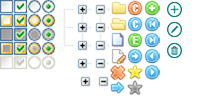
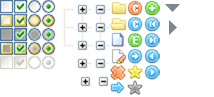
树状菜单调整样式

Changed region(s): [[0.757, 0.0, 0.8692, 0.1856], [0.757, 0.433, 0.8692, 0.6186], [0.757, 0.2165, 0.8692, 0.4021]]

diff --git a/src/main/resources/templates/intermediary/detail.html b/src/main/resources/templates/intermediary/detail.html
@@ -10,14 +10,133 @@
 <div class="wrapper">
     <!-- Content Wrapper. Contains page content -->
     <div class="content-wrapper">
-        <!-- Content Header (Page header) -->
-        <section class="content-header">
-            <h1>
-                项目管理
-            </h1>
+        <section class="content-header change-content">
+            <div class="row">
+                <div class="col-md-10 col-sm-10  col-xs-12">
+                    <div class="form-group float-left">
+                        <span class="font-size-18">供应商详情</span>
+                    </div>
+                </div>
+                <div class="col-md-2 col-sm-2  col-xs-12">
+                    <!--<button type="button" class="btn btn-block btn-info">添加设备</button>-->
+                    <button type="button" class="btn btn-info btn-block"
+                            data-toggle="modal" data-target="#modal-info" @click="backIndex">
+                        返回
+                    </button>
+                </div>
+            </div>
         </section>
+        <section class="content-list">
+            <div class="page-content">
+                <div class="row">
+                    <div class="col-md-6 col-sm-6 col-xs-12 page-content">
+                        <div class="logo-detail border-black padding-10">
+                            <div class="row">
+                                <div class="col-md-6 col-sm-4 col-xs-6 ">
+                                    <img src="images/timg.jpg" alt="" width="" id="logo">
+                                </div>
+                                <div class="col-md-6 col-sm-8 col-xs-6 ">
+                                    <div>
+                                        <label for="">中间商名称</label>
+                                        <span>中间商xxxxxxx公司</span>
+                                    </div>
+                                    <div>
+                                        <label for="">所属地区：</label>
+                                        <span>安徽省</span>
+                                    </div>
+                                    <div>
+                                        <label for="">联系人</label>
+                                        <span>张三</span>
+                                    </div>
+                                    <div>
+                                        <label for="">联系方式</label>
+                                        <span>139xxxxxxxx</span>
+                                    </div>
+                                    <div>
+                                        <label for="">平台对接人</label>
+                                        <span>张三</span>
+                                    </div>
+                                    <div>
+                                        <label for="">联系电话</label>
+                                        <span></span>
+                                    </div>
+                                </div>
+                            </div>
+                        </div>
+                        <div class="row padding-10">
+                            <div class="col-md-12 padding-left-15">
+                                图片资料
+                            </div>
+                            <div class="col-md-12 company-content padding-left-15">
+                                中间商简要信息中间商简要信息中间商简要信息中间商简要信息中间商简要信息中间商简要信息中间商简要信息中间商简要信息中间商简要信息中间商简要信息中间商简要信息中间商简要信息中间商简要信息中间商简要信息中间商简要信息中间商简要信息中间商简要信息中间商简要信息中间商简要信息中间商简要信息
+                                中间商简要信息中间商
+                            </div>
+                        </div>
+                    </div>
+                    <div class="col-md-6 col-sm-6 col-xs-12 company-right-content">
+                        <div class="row head">
+                            <div class="col-md-7 height-35 col-xs-7 padding-left-15 back-gainsboro">
+                                中间商跟进
+                            </div>
+                            <div class="col-md-5 col-xs-5 back-gainsboro text-right padding-right-25">
+                                <button type="button" class="btn  btn-default ">新增改进</button>
 
-        <!-- /.content -->
+                            </div>
+                        </div>
+                        <div class="border-left-black">
+                            <div class="row">
+                                <div class="col-md-12">
+                                    <div class="direct-chat-msg right padding-left-15">
+                                        <div class="direct-chat-text ">
+                                            <div>
+                                                <label>图文名称</label>
+                                                <span>XXXXXXXXXX</span>
+                                            </div>
+                                            <div>
+                                                <label>图文信息</label>
+                                                <span>XXXXXXXXXX</span>
+                                            </div>
+                                            <div>
+                                                <label>时间</label>
+                                                <span>2015-09-23</span>
+                                            </div>
+                                            <div>
+                                                <label>时间</label>
+                                                <span>2015-09-23</span>
+                                            </div>
+                                        </div>
+                                    </div>
+                                </div>
+                            </div>
+                            <div class="row">
+                                <div class="col-md-12">
+                                    <div class="direct-chat-msg right padding-left-15">
+                                        <div class="direct-chat-text ">
+                                            <div>
+                                                <label>图文名称</label>
+                                                <span>XXXXXXXXXX</span>
+                                            </div>
+                                            <div>
+                                                <label>图文信息</label>
+                                                <span>XXXXXXXXXX</span>
+                                            </div>
+                                            <div>
+                                                <label>时间</label>
+                                                <span>2015-09-23</span>
+                                            </div>
+                                            <div>
+                                                <label>时间</label>
+                                                <span>2015-09-23</span>
+                                            </div>
+                                        </div>
+                                    </div>
+                                </div>
+                            </div>
+                        </div>
+                    </div>
+                </div>
+            </div>
+        </section>
     </div>
 </div>
 <div th:replace="import::scipt"></div>

diff --git a/src/main/resources/static/js/intermediary.js b/src/main/resources/static/js/intermediary.js
@@ -16,12 +16,12 @@ $(document).ready(function() {
                 {val:3,name:"项目二"}
             ],
             facList:[
-                { id:1, pId:0, name:"四川", t:"id=1", open:true},
-                { id:11, pId:1, name:"成都", t:"id=11"},
-                { id:12, pId:1, name:"自贡", t:"id=12"},
-                { id:13, pId:1, name:"眉山", t:"id=13"},
-                { id:14, pId:1, name:"巴中", t:"id=14"},
-                { id:2, pId:0, name:"北京", t:"id=2"}
+                { id:1, pId:0, name:"四川",icon:"/images/parent.png", open:true},
+                { id:11, pId:1, name:"成都",icon:"/images/leaf.png"},
+                { id:12, pId:1, name:"自贡",icon:"/images/leaf.png"},
+                { id:13, pId:1, name:"眉山",icon:"/images/leaf.png"},
+                { id:14, pId:1, name:"巴中", icon:"/images/leaf.png"},
+                { id:2, pId:0, name:"北京", icon:"/images/leaf.png"}
             ],
             treeIsShow:false
         },
@@ -87,7 +87,8 @@ $(document).ready(function() {
 
 
             },
-            treeShow:function(){
+            treeShow:function(e){
+                // e.stopPropagation()
                 var _this = this;
                 _this.treeIsShow = true;
             },
@@ -138,7 +139,10 @@ $(document).ready(function() {
             $(document).on("click","#detail",function(){
                 window.location.href = "detail?menuId=4";
             });
-
+            $(document).bind("click",function(){
+                // _this.treeIsShow = false;
+                // console.log( _this.treeIsShow);
+            });
 
             _this.editorFun(); //初始化生成编辑器
             _this.uploaderFun();  //上传图片

diff --git a/src/main/resources/templates/intermediary/index.html b/src/main/resources/templates/intermediary/index.html
@@ -13,7 +13,7 @@
   }
   .modal-body .label-pop-style {
       position: relative;
-      width: 92px;
+      width: 74px;
       margin-right: 4px;
   }
   .modal-body {
@@ -39,13 +39,16 @@
   #treeDemo{
     position: absolute;
     width: 60%;
-    left: 33%;
+    left: 82px;
     background: #fff;
     outline: 1px solid #3c8dbc;
     z-index: 3;
   }
   #editor1{
     resize: none;
+  }
+  .modal-body .col-md-6{
+    padding: 0!important;
   }
 </style>
 <body class="hold-transition skin-blue sidebar-mini">
@@ -132,7 +135,7 @@
           </div>
         </div>
         <div class="row modal-body margin-top-15">
-          <div class="col-md-6 col-xs-6">
+          <div class="col-md-6 col-sm-12 col-xs-12">
             <div class="pop-box margin-top-15">
               <label for="" class="label-pop-style text-align-right">中间商名称:</label>
               <input type="text" class="form-control form-style-pop">
@@ -146,8 +149,8 @@
               <input type="text" class="form-control form-style-pop">
             </div>
           </div>
-          <div class="col-md-6 col-xs-6">
-            <div class="pop-box margin-top-15">
+          <div class="col-md-6 col-sm-12 col-xs-12">
+            <div class="pop-box margin-top-15 positon-relative">
               <label for="" class="label-pop-style text-align-right">所属地区:</label>
               <input type="text" class="form-control form-style-pop" id="address"  @blur="treeHide"  @focus="treeShow">
               <ul id="treeDemo" class="ztree"  v-show="treeIsShow"></ul>

diff --git a/src/main/resources/static/dist/css/common.css b/src/main/resources/static/dist/css/common.css
@@ -1,8 +1,14 @@
+html,body{
+    font-family: "微软雅黑";
+}
 .float-left{
     float: left;
 }
 .float-right{
     float: right;
+}
+.positon-relative{
+    position: relative;
 }
 .text-align{
     text-align: center;
@@ -96,6 +102,34 @@ div.dataTables_wrapper div.dataTables_paginate{
     padding: 5px 8px;
 }
 
+/*z-tree公用的样式*/
+.ztree *{
+    font-size: 14px;
+}
+.ztree li span.button.noline_close{
+    background-position: -166px 1px!important;
+}
+.ztree li span.button.noline_open {
+    background-position: -169px -20px!important;
+}
+.ztree li span.button{
+    width: 22px!important;
+    height: 22px!important;
+}
+.ztree li span.button.ico_open{
+    margin-right: 5px;
+}
+.ztree li a{
+    height: 20px!important;
+}
+.ztree li a.curSelectedNode{
+    border: 1px #d1d1d1 solid;
+    background: #fff;
+
+}
+.ztree li a:hover{
+    text-decoration: none!important;
+}
 /*弹窗样式*/
 /*label样式*/
 .modal-body .label-pop-style{
